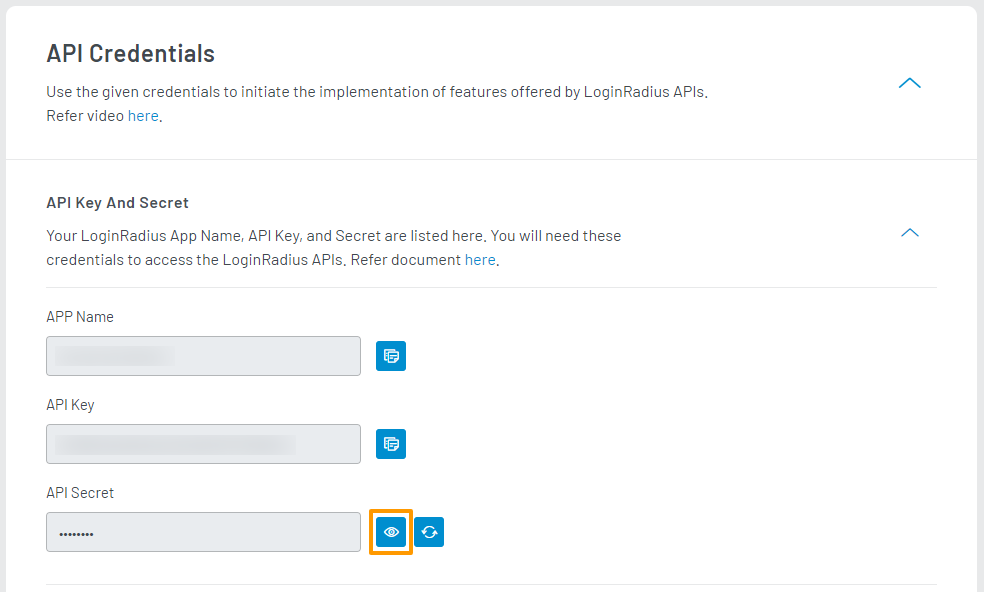
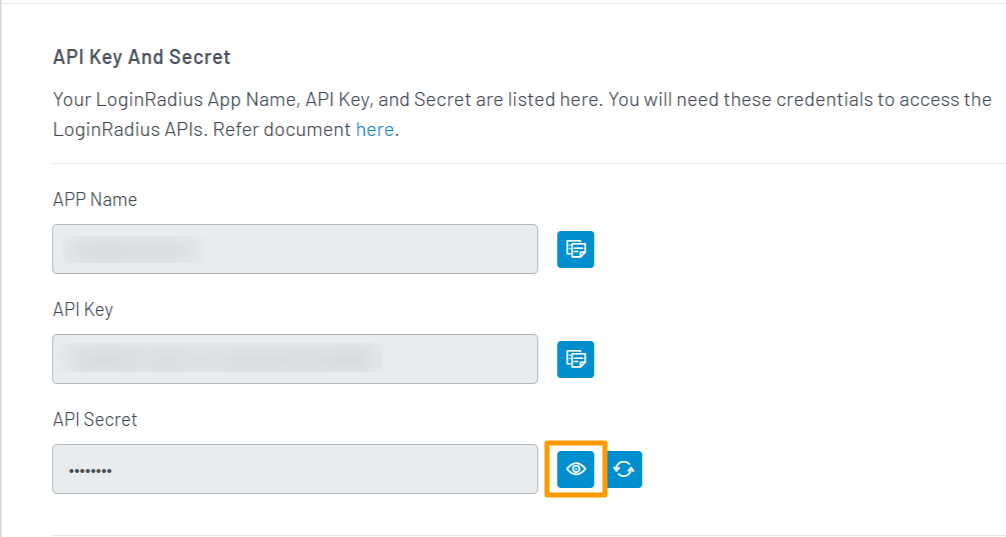
Updated API Credentials Image (removed video reference) (#293)
* Add member new image

Add member new image

* Changes for LSS-654 and LSS-655

Screen and text changes for LSS-654 and LSS-655

* latest screen

latest screen

* latest screen

latest screen

* latest screens

latest screens

* latest image

latest image

* Changes for 655

Changes for 655

* latest screen

latest screen

* Premium tag removed - LSS-655

Premium tag removed and screen updated - LSS-655

* removed premium tag

removed premium tag

* removed premium tag

removed premium tag

* latest screen

latest screen

* latest screen

latest screen

* latest screen

latest screen

* latest screen

latest screen

* latest screen

latest screen

* Updated for LSS-654

Updated screen and text for Updated for LSS-654

* latest screen

latest screen

* latest user mgmt screen

latest user mgmt screen (for screen text revisions)

* Updated for LSS-656 (screen text changes)

Updated for LSS-656 (screen text changes)

* Changes for LSS-656

Changes for LSS-656

* minor text change

minor text change

* latest screen

latest screen

* screen

screen

* screen

screen

* screen

screen

* screen

screen

* Changes for LSS-656

Changes for LSS-656

* latest screen

latest screen

* screen

screen

* Changes for LSS-657

Changes for LSS-657

* screens for LSS-658

screens for LSS-658

* Changes for LSS-658

Changes for LSS-658

* screens for LSS-654

screens for LSS-654

* Text and screen changes for LSS-654

Text and screen changes for LSS-654

* Screen change for LSS-644
[…]

diff --git a/content/faq/index.md b/content/faq/index.md
@@ -33,21 +33,17 @@ LoginRadius support team is available 24/7, and you can reach them through the:
 
 ### How to Retrieve API key and secret?
 
-* Login to your <a href="https://dashboard.loginradius.com/dashboard" target="_blank">LoginRadius Dashboard</a>account, select your app, then from the left navigation panel, click **Configuration** and then navigate to the **API Credentials** section.
-
-* Click the down arrow and the **API Credentials** screen will appear:
-
-  ![alt_text](images/api-credentails.png "image_tooltip")
-
+* Login to your <a href="https://dashboard.loginradius.com/dashboard" target="_blank">LoginRadius Dashboard</a> account, select your app, then from the left navigation panel, click **Configuration** and then navigate to the **API Credentials** section.
+* Click the down arrow and the **API Credentials** screen will appear.
 * Click **API Key And Secret** to get your unique credentials as displayed in the following screen:
 
-  ![alt_text](images/key-secret.png "image_tooltip")
+  ![alt_text](images/api-credentials.png "image_tooltip")
 
-* The API key and secret are used to interact with LoginRadius' APIs. You can copy the APP Name and API Key by clicking the respective **Copy** button.
+* The API key and secret are used to interact with LoginRadius' APIs. You can copy the **APP Name** and **API Key** by clicking the respective **Copy** button.
 
 ### How to view the API Secret?
 
-* Click the **eye** button given next to the API Secret field. The API secret is not displayed by default for security reasons.
+* Click the **eye** button given next to the API Secret field. The API Secret is not displayed by default for security reasons.
 
   ![alt_text](images/api-secret-eye.png "image_tooltip")
 
